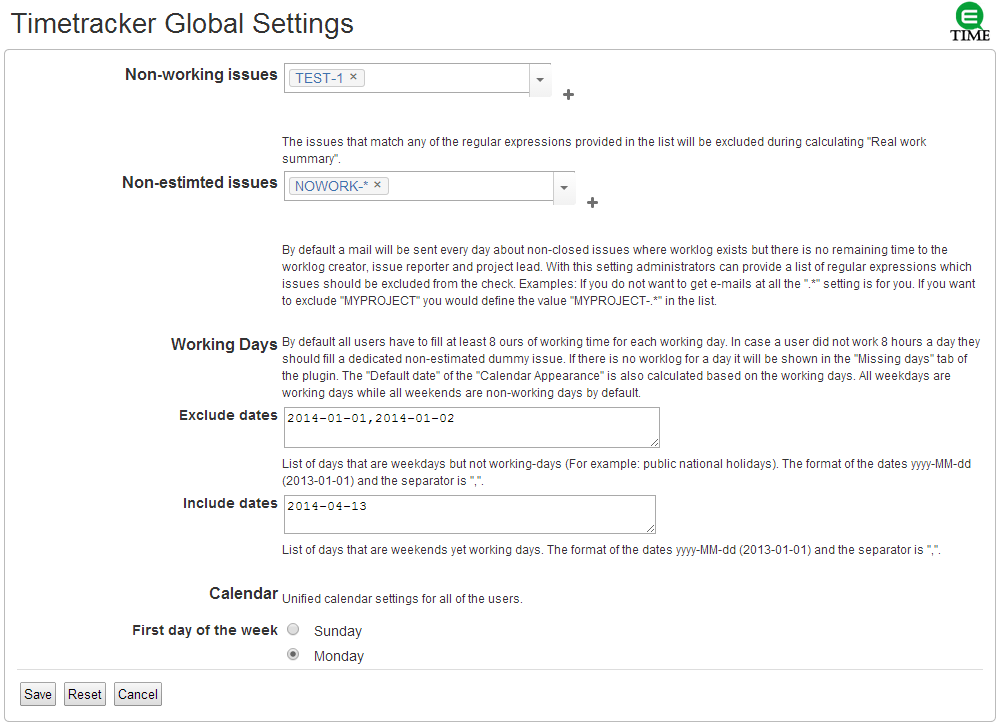
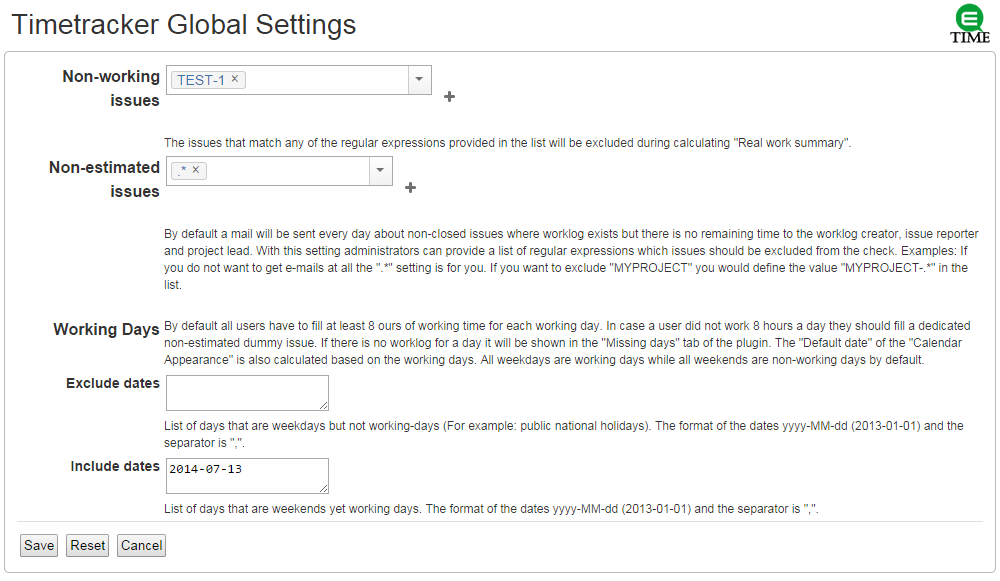
updated to the new way of handling calendar FDOW settings

diff --git a/index.html b/index.html
@@ -133,7 +133,7 @@
                                 </li>
                                 <li><b>Issue</b> - The issue to which the worklog will belong. Required! The field can be filled in in two ways:
                                     <ul>
-                                        <li>Typing the issue code in the field. The autocomplete function of the issue field will display the issues the user viewed already based on the typed text.</li>
+                                        <li>Typing the issue code or summary in the field. The autocomplete function will display the issues matching the typed text.</li>
                                         <li>By clicking on the cross beside the issue field, the users can select one of the issues they viewed most frequently.</li>
                                     </ul>In the issue field there are more issues listed but it is always the first one that is selected. Issues can be removed from the input field by clicking on the X next to them.</li>
                                 <li><b>End Time</b> - End time of the worklog. It is optional, but either the End time or the Duration field has to be filled in. Its format: hh:mm. Its value is the current time by default. The value of the end time cannot be smaller than the start time.
@@ -194,7 +194,10 @@
                     <ul>
                         <li><b>Current Date</b> - The current date will be set up as the default value.</li>
                         <li><b>Last Unfilled Date</b> - Returns the oldest blank day of the past week by default. if each and every day is logged appropriately, then the current day is returned. When determining the oldest blank day, the plugin considers the list of exclude and include dates.</li>
-                    </ul>The calendar highlights function can be turned on and off.
+                    </ul>
+					<p>The calendar highlights function can be turned on and off.<br>
+					There is a system setting to change the calendars first day of the week, located in: <br>
+					&nbsp;&nbsp;&nbsp;&nbsp;"system admin->look and feel->Use ISO8601 standard in Date Picker"</p>
                     <h4>Input fields settings</h4> 
                     <p>This part of the settings the StartTime field and the EndTime field Now button rounding function can be configured. In both cases the rounding rate can be a predetermined value. The acceptable values are 5, 10, 15, 20, 30 minutes.</p>
                     <img class="img-responsive img-thumbnail" src="images/jttp_user_settings.png" alt="User settings" />
@@ -214,10 +217,6 @@
                             <ul>
                                 <li><b>Exclude date</b> - List of those days that are working days by default, but they are not counted as such (e.g.: National Holidays).</li>
                                 <li><b>Include date</b> - List of those days that are non-working days by default, but they are counted as working days.</li>
-                            </ul>
-                            <h4>Calendar</h4> Unified calendar settings for all of the JIRA users.
-                            <ul>
-                                <li><b>First day of the week</b> - Sets the first day of the week for the shown Calendars in the Timetracker plugin.</li>
                             </ul>
                             <p>The settings can be saved by pressing the Save button. The Reset button can restore the foregoing settings. By selecting the Cancel button, the user is redirected to the Administrator screen without making any changes.</p>
                             <img class="img-responsive img-thumbnail" src="images/jttp_global_settings.png" alt="Global settings" />
